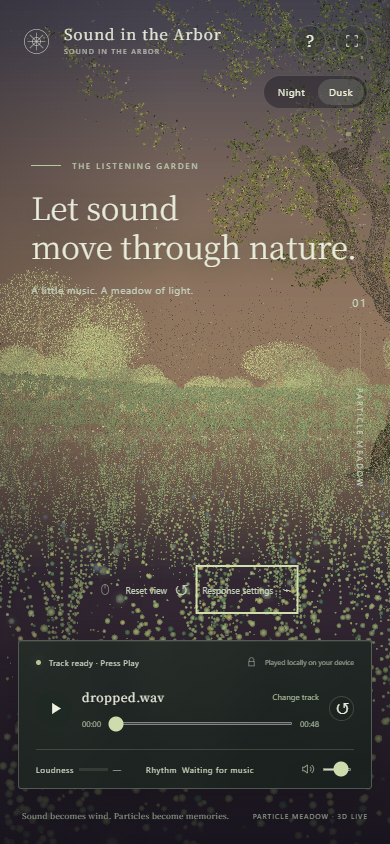
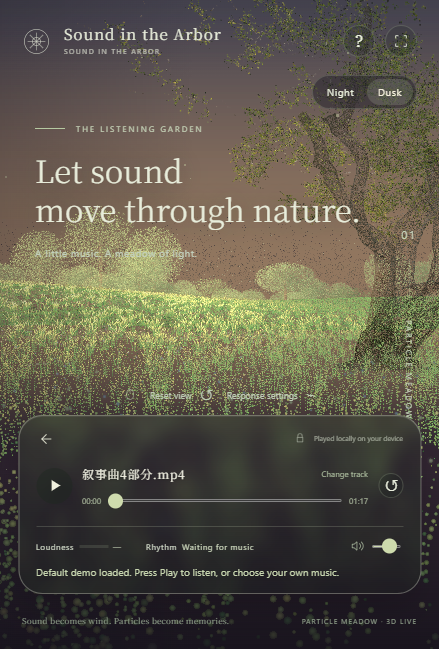
Update particle garden project

diff --git a/dist/app.js b/dist/app.js
@@ -21,7 +21,7 @@ function choose(){fileInput.value='';fileInput.click();}
 async function loadTrack(url,name,isDemo=false){
   const id=++loadId;media.pause();loading=true;playing=false;currentFile=name;resetAnalysis();
   if(objectURL&&objectURL!==url){URL.revokeObjectURL(objectURL);objectURL=null;}
-  $('trackArea').hidden=false;$('dropzone').hidden=true;$('trackName').textContent=name;$('trackName').title=name;$('playButton').disabled=true;$('seek').disabled=true;$('restart').disabled=true;$('currentTime').textContent='00:00';$('duration').textContent='00:00';$('seek').value=0;message();status('Loading your track…');syncPlay();status('Loading your track…');
+  $('trackArea').hidden=false;$('dropzone').hidden=true;$('backToMusic').hidden=false;$('playerStatus').hidden=true;$('trackName').textContent=name;$('trackName').title=name;$('playButton').disabled=true;$('seek').disabled=true;$('restart').disabled=true;$('currentTime').textContent='00:00';$('duration').textContent='00:00';$('seek').value=0;message();status('Loading your track…');syncPlay();status('Loading your track…');
   media.src=url;media.load();
   try{
     await new Promise((resolve,reject)=>{const timeout=setTimeout(()=>finish(new Error('Loading is taking too long. Choose the file again or try a shorter MP4 or MP3.')),20000);const ready=()=>finish(),failed=()=>finish(new Error('This file could not be played. Check that your MP4 contains audio, or try an AAC MP4, MP3, or WAV.'));function finish(error){clearTimeout(timeout);media.removeEventListener('loadedmetadata',ready);media.removeEventListener('error',failed);error?reject(error):resolve();}media.addEventListener('loadedmetadata',ready,{once:true});media.addEventListener('error',failed,{once:true});});
@@ -45,6 +45,15 @@ async function togglePlay(){
   finally{$('playButton').disabled=false;syncPlay();}
 }
 $('chooseFile').addEventListener('click',choose);$('replaceFile').addEventListener('click',choose);fileInput.addEventListener('change',()=>loadFile(fileInput.files[0]));
+$('backToMusic').addEventListener('click',()=>{
+ ++loadId;media.pause();currentFile=null;loading=false;playing=false;
+ media.removeAttribute('src');media.load();if(objectURL){URL.revokeObjectURL(objectURL);objectURL=null;}
+ resetAnalysis();fileInput.value='';$('trackArea').hidden=true;$('dropzone').hidden=false;$('backToMusic').hidden=true;$('playerStatus').hidden=false;
+ $('trackName').textContent='No track selected';$('trackName').title='';$('seek').value=0;
+ $('currentTime').textContent='00:00';$('duration').textContent='00:00';
+ for(const id of ['playButton','seek','restart'])$(id).disabled=true;
+ message();syncPlay();$('chooseFile').focus();
+});
 $('playButton').addEventListener('click',togglePlay);
 $('demoButton').addEventListener('click',async()=>{await loadTrack('./assets/ballade-4-excerpt.mp4','叙事曲4部分.mp4',true);});
 $('restart').addEventListener('click',()=>{media.currentTime=0;resetAnalysis();$('seek').value=0;$('currentTime').textContent='00:00';});

diff --git a/dist/style.css b/dist/style.css
@@ -18,3 +18,15 @@
 .music-panel .file-chooser small,.music-panel .panel-topline,.music-panel .audio-readings,.music-panel .local-note{color:#d0d9c7}
 .music-panel .demo-button,.music-panel .play-button{background:rgba(28,40,31,.45);border-color:rgba(226,236,209,.32);color:#f0f1de}
 @supports not ((backdrop-filter:blur(1px)) or (-webkit-backdrop-filter:blur(1px))){.music-panel{background:rgba(25,38,29,.94)}}
+
+/* Clear rounded glass player, shared by upload and playback states. */
+.music-panel{border-radius:24px;background:linear-gradient(120deg,rgba(27,38,33,.26),rgba(24,30,28,.32));backdrop-filter:blur(9px);-webkit-backdrop-filter:blur(9px);border-color:rgba(235,239,220,.32)}
+.track-head{flex-wrap:wrap;justify-content:flex-start;column-gap:14px;row-gap:6px}#trackName{flex:1;min-width:70px}#backToMusic{color:#eef0dd}.music-panel .demo-button{border-radius:12px}
+@supports not ((backdrop-filter:blur(1px)) or (-webkit-backdrop-filter:blur(1px))){.music-panel{background:rgba(25,34,29,.58)}}
+
+
+/* Transparent circular return action replaces status in loaded-track mode. */
+.music-return{display:inline-grid;place-items:center;width:36px;height:36px;flex:none;padding:8px;border:1px solid rgba(232,241,213,.6);border-radius:50%;background:transparent;color:#f1f3df}.music-return svg{width:19px;height:19px}.music-return:hover{background:rgba(235,242,211,.10);border-color:#f1f3df}.scene-tools{bottom:270px}@media(max-width:700px){.scene-tools{bottom:266px}}
+
+/* Compact unframed return arrow; preserve the original player dimensions. */
+.music-panel{width:min(800px,calc(100% - 88px));padding:18px 25px 12px}.music-return{width:20px;height:14px;min-height:0;padding:0;border:0;border-radius:0;background:transparent}.music-return svg{width:16px;height:16px}.music-return:hover{background:transparent;color:#fff}.panel-topline{min-height:14px}.scene-tools{bottom:244px}@media(max-width:700px){.music-panel{width:calc(100% - 36px);padding:15px 17px 12px}.scene-tools{bottom:237px}}@media(min-width:1600px){.scene-tools{bottom:260px}}@media(max-height:650px) and (min-width:701px){.scene-tools{bottom:227px}}

diff --git a/dist/index.html b/dist/index.html
@@ -38,7 +38,7 @@
     </section>
 
     <section class="music-panel" aria-label="Music player">
-      <div class="panel-topline"><span><i id="statusDot"></i><span id="status">Meadow ready</span></span><span class="local-note"><svg viewBox="0 0 20 20" aria-hidden="true"><path d="M6 9V6a4 4 0 0 1 8 0v3M5 9h10v8H5z"/></svg>Played locally on your device</span></div>
+      <div class="panel-topline"><button id="backToMusic" class="music-return" aria-label="Return to bring your own music" title="Bring your own music" hidden><svg viewBox="0 0 24 24" aria-hidden="true"><path d="M19 12H5m7-7-7 7 7 7"/></svg></button><span id="playerStatus"><i id="statusDot"></i><span id="status">Meadow ready</span></span><span class="local-note"><svg viewBox="0 0 20 20" aria-hidden="true"><path d="M6 9V6a4 4 0 0 1 8 0v3M5 9h10v8H5z"/></svg>Played locally on your device</span></div>
       <div id="dropzone" class="dropzone">
         <button id="chooseFile" class="file-chooser"><span class="upload-icon"><svg viewBox="0 0 24 24" aria-hidden="true"><path d="M12 16V4m-4 4 4-4 4 4M4 15v5h16v-5"/></svg></span><span><strong>Bring your own music</strong><small>Drop an MP4 or click to browse <span>· MP3 / WAV / M4A also supported</span></small></span></button>
         <button id="demoButton" class="demo-button">Try the demo <span aria-hidden="true">↗</span></button>

diff --git a/README.md b/README.md
@@ -11,9 +11,15 @@ This revision focuses on three connected problems: grass density and volume, con
 - **Lighting choice:** Night retains the dark purple background and luminous point-cloud style. Dusk uses a low-angle warm directional light, environment fill, approximate particle normals, and a muted warm sky. After visual review, a stronger yellow-green treatment was rejected in favor of softer gray-gold transitions. Tree and grass shadows use a static point-cloud depth map.
 - **Player surface:** frosted glass softly reveals a little of the particle background while keeping labels and controls readable.
 
-![Dusk mode and frosted-glass music player](docs/screenshot.png)
+![Current Dusk scene and music player with the top-left return arrow](docs/screenshot.png)
 
 [Night mode](docs/night.png) · [Terrain before](docs/terrain-before.png) · [Terrain after, same camera](docs/terrain-after.png)
+
+## Player return control update
+
+Building on the existing player, a small, unframed arrow now appears in its top-left corner after loading the demo or a personal track, replacing the status text in that position. Selecting it stops playback and returns to **Bring your own music**, where another local recording can be selected. The panel keeps its original width, with a more transparent background and clearer rounded corners. The existing scene, lighting modes, camera controls and playback controls are retained.
+
+The screenshot above shows the current saved interface. See also the [current mobile player](docs/mobile.png). The recent experimental stronger breakup and near-camera particle changes were reverted; this saved version retains the preceding particle behavior.
 
 ## Run in VS Code
 
@@ -84,10 +90,10 @@ Earlier feedback praised the visual aesthetics and immersive atmosphere, but des
 
 **Feedback after the latest revision**
 
-After trying the updated experience, users reported a clear improvement in the particle effects compared with the previous version. Two areas still need attention:
+After trying the updated experience, users reported a clear improvement in the particle effects compared with the previous version. They identified the following areas for improvement:
 
 - **Clearer visual contrast between musical examples:** the differences between examples could be more visually pronounced, making changes in musical pace and intensity easier to see.
-- **Returning from the demo to personal music:** users reported that after choosing the demo, they could not return to playing their own preferred songs. Although changing the track is part of the intended workflow, this transition needs investigation and improvement. This remains an unresolved usability issue, rather than a completed fix.
+- **Returning from the demo to personal music:** users reported that after choosing the demo, they could not return to playing their own preferred songs. In response, the top-left return arrow was added. It now stops the current track and restores the music picker. Browser checks confirmed that a personal recording can be loaded and played after returning from the demo; further user feedback on the revised control is still welcome.
 
 This feedback reflects the creator's summary of user trials, rather than validation of every musical style or playback path.
 
